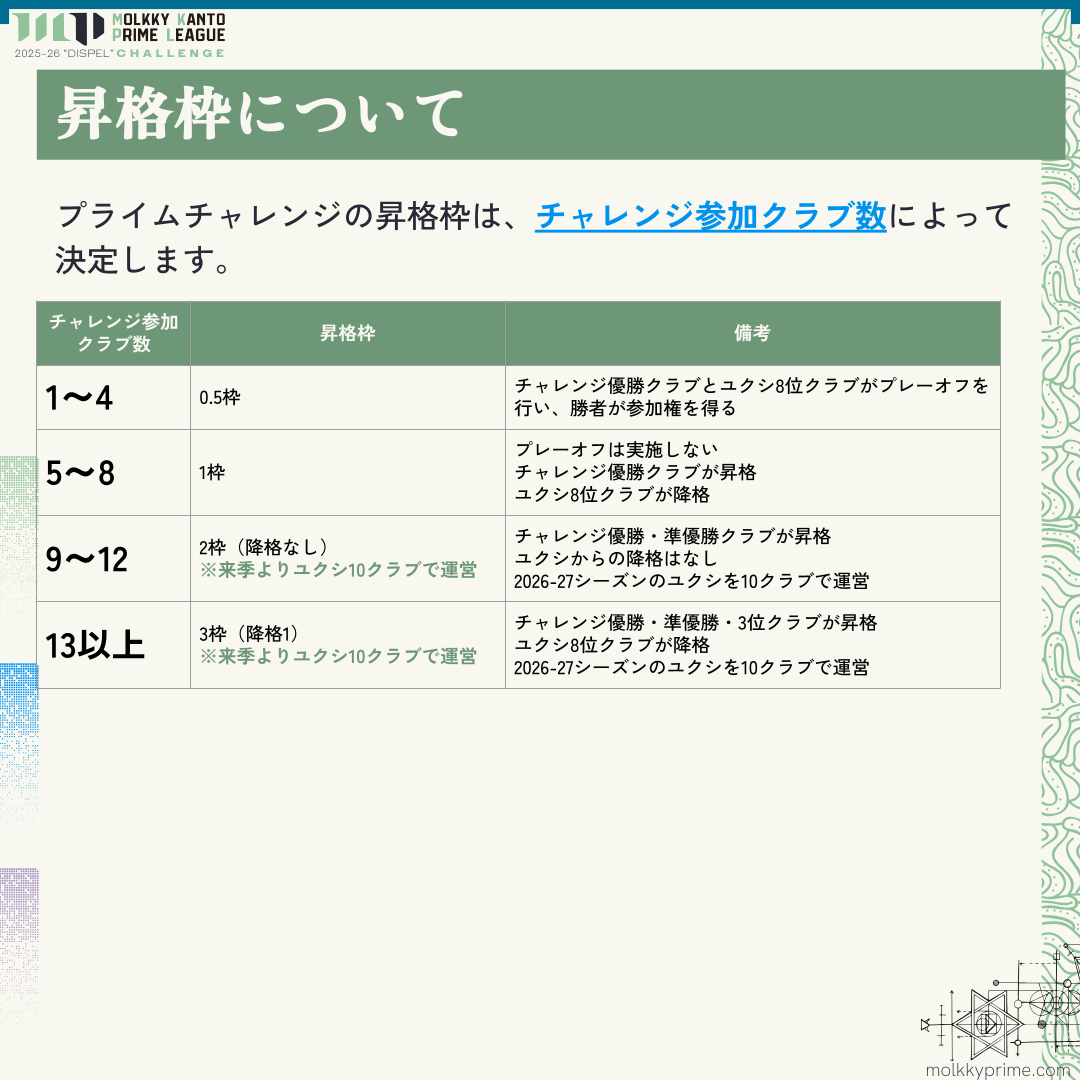
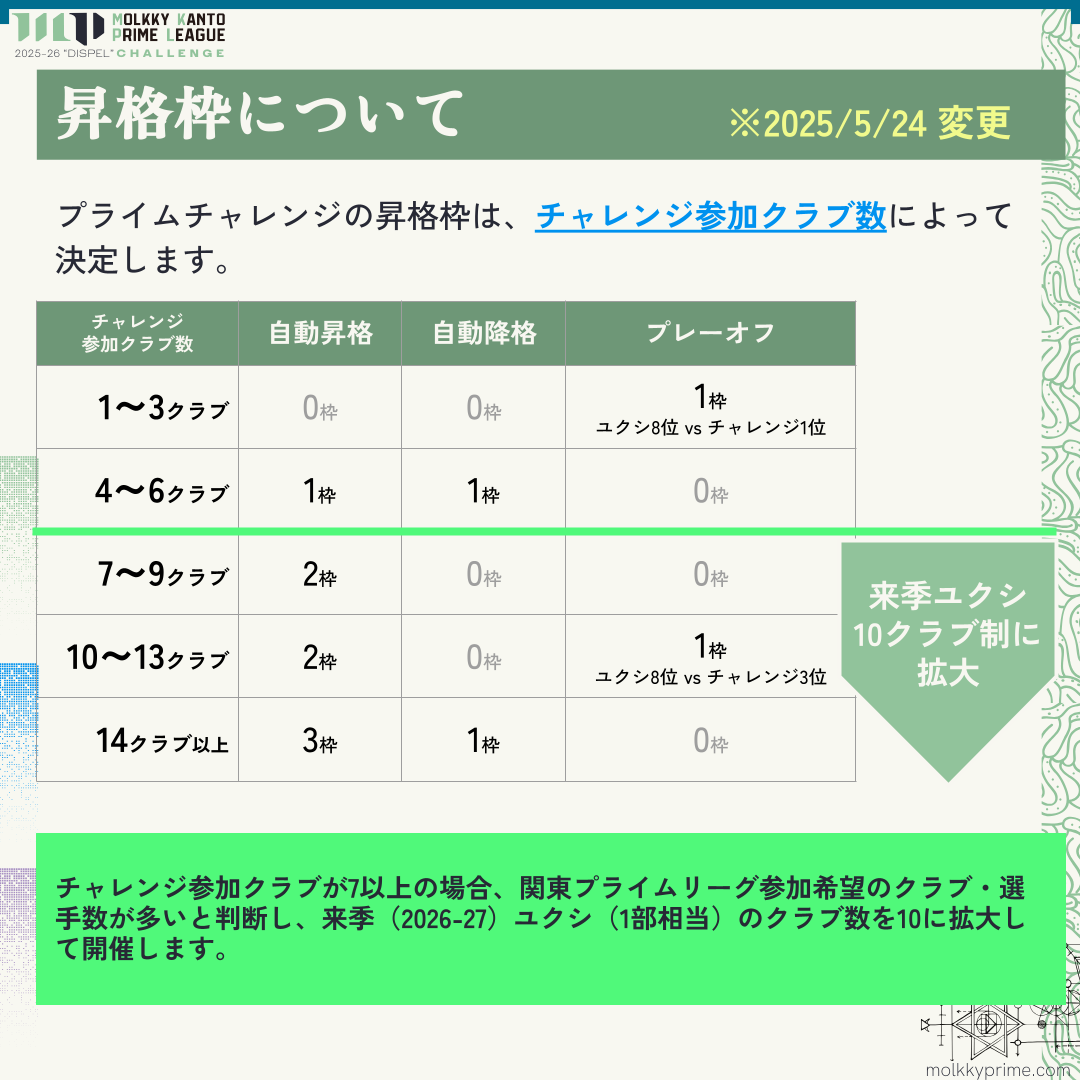
v0.0.0.b33 シーズンガイド更新

diff --git a/script/script.js b/script/script.js
@@ -126,13 +126,19 @@ class MolkkyPrimeConstants {
     // シーズンガイドリンク
     // =================================================
     static get currentSeasonFirstDivGuideUrl() {
-        return this.season202425FirstDivGuideUrl;
+        return this.season202526FirstDivGuideUrl;
+    }
+    static get season202526FirstDivGuideUrl() {
+        return "https://docs.google.com/presentation/d/1hgD1lWqjFENRszDZMKNyleOh4YLzLapV644-LBqAPIk/";
     }
     static get season202425FirstDivGuideUrl() {
         return "https://docs.google.com/presentation/d/1F1ZTMUHTkiqN0pbkweLLT0IrM5-WZOyHI0-K_GMPeR0/";
     }
     static get currentSeasonSecondDivGuideUrl() {
-        return this.season202425SecondDivGuideUrl;
+        return this.season202526SecondDivGuideUrl;
+    }
+    static get season202526SecondDivGuideUrl() {
+        return "https://docs.google.com/presentation/d/1i9mhV0gKI6xrdUrRnsEcT6e2XnD_VUyP4H4UnJ8z6lw/";
     }
     static get season202425SecondDivGuideUrl() {
         return "https://docs.google.com/presentation/d/1_ZfZ-IxBkkIixzw2RsdMNSY49HHgg5CeYRlqrhMWA-8/";
@@ -201,12 +207,12 @@ class MolkkyPrimeConstants {
         return [
             { "url": "https://x.com/SLAPS_molkky", "name": "SLAPS Twitter" },
             { "url": "https://x.com/mcjp_official", "name": "jaja patatas Twitter" },
-            { "url": "https://x.com/sugi_molkky", "name": "杉並エンジョイモルック Twitter" },
             { "url": "https://x.com/fuchu_mol", "name": "Fuchu-möl White Horses Twitter" },
             { "url": "https://x.com/lowkey_molkky", "name": "löwkey with うんとこどっこいしょ大学 Twitter" },
             { "url": "https://x.com/Kestaa1013", "name": "Kestää Twitter" },
             { "url": "https://x.com/NXG_molkky", "name": "NEXT GENERATIONS Twitter" },
-            { "url": "https://x.com/molkky634", "name": "武蔵野 Twitter" }
+            { "url": "https://x.com/molkky634", "name": "武蔵野 Twitter" },
+            { "url": "https://x.com/cobradanplus", "name": "コブラ団＋ Twitter" },
         ];
     }
     static get currentYksiCoverUrl() {
@@ -266,7 +272,8 @@ function convertClubFromCid(cid) {
         ['C12', "にらそばとこくカレー"],
         ['C13', "ブラッキーズ"],
         ['C14', "コブラ団＋"],
-        ['C15', "Buddiesモルック部"]
+        ['C15', "Buddiesモルック部"],
+        ['C16', "SISU"]
     ]);
     return clubMap.get(cid) || "";
 }
@@ -276,7 +283,7 @@ const getDivisionCodeFrom = (cid) => {
         ['C01', MolkkyPrimeConstants.secondDivName],
         ['C02', MolkkyPrimeConstants.firstDivName],
         ['C03', MolkkyPrimeConstants.firstDivName],
-        ['C04', MolkkyPrimeConstants.firstDivName],
+        ['C04', MolkkyPrimeConstants.secondDivName],
         ['C05', MolkkyPrimeConstants.firstDivName],
         ['C06', MolkkyPrimeConstants.firstDivName],
         ['C07', MolkkyPrimeConstants.firstDivName],
@@ -286,8 +293,9 @@ const getDivisionCodeFrom = (cid) => {
         ['C11', MolkkyPrimeConstants.secondDivName],
         ['C12', MolkkyPrimeConstants.secondDivName],
         ['C13', MolkkyPrimeConstants.secondDivName],
-        ['C14', MolkkyPrimeConstants.secondDivName],
-        ['C15', MolkkyPrimeConstants.secondDivName]
+        ['C14', MolkkyPrimeConstants.firstDivName],
+        ['C15', MolkkyPrimeConstants.secondDivName],
+        ['C16', MolkkyPrimeConstants.secondDivName]
     ]);
     return divisionMap.get(cid) || "";
 };

diff --git a/entry/index.html b/entry/index.html
@@ -122,6 +122,10 @@
                     </tr>
                 </table>
             </div>
+            <h4 class="title is-size-5 content">関連リンク</h4>
+            <p class="content"><a
+                    href="https://docs.google.com/presentation/d/1hgD1lWqjFENRszDZMKNyleOh4YLzLapV644-LBqAPIk/edit?usp=sharing"
+                    target="_blank">2025-26ユクシ用シーズンガイド</a></p>
         </section>
 
         <!-- Club Entry -->
@@ -223,6 +227,10 @@
                     </tr>
                 </table>
             </div>
+            <h4 class="title is-size-5 content">関連リンク</h4>
+            <p class="content"><a
+                    href="https://docs.google.com/presentation/d/1i9mhV0gKI6xrdUrRnsEcT6e2XnD_VUyP4H4UnJ8z6lw/edit?usp=sharing"
+                    target="_blank">2025-26チャレンジ用シーズンガイド</a></p>
             <article class="message is-success">
                 <div class="message-header">
                     <p>シーズン2025-26の見通し</p>
@@ -244,35 +252,35 @@
             <div class="card">
                 <div class="card-image">
                     <figure class="image">
-                        <img class="is-rounded" src="./asset/entry_mkpl_kaksi_1.png" alt="season2023_slaps1" />
+                        <img class="is-rounded" src="./asset/entry_mkpl_kaksi_1.png" alt="2526_challenge_entry1" />
                     </figure>
                 </div>
             </div>
             <div class="card">
                 <div class="card-image">
                     <figure class="image">
-                        <img class="is-rounded" src="./asset/entry_mkpl_kaksi_2.png" alt="season2023_slaps1" />
+                        <img class="is-rounded" src="./asset/entry_mkpl_kaksi_2.png" alt="2526_challenge_entry2" />
                     </figure>
                 </div>
             </div>
             <div class="card">
                 <div class="card-image">
                     <figure class="image">
-                        <img class="is-rounded" src="./asset/entry_mkpl_kaksi_3.png" alt="season2023_slaps1" />
+                        <img class="is-rounded" src="./asset/entry_mkpl_kaksi_3.png" alt="2526_challenge_entry3" />
                     </figure>
                 </div>
             </div>
             <div class="card">
                 <div class="card-image">
                     <figure class="image">
-                        <img class="is-rounded" src="./asset/entry_mkpl_kaksi_4.png" alt="season2023_slaps1" />
+                        <img class="is-rounded" src="./asset/entry_mkpl_kaksi_4.png" alt="2526_challenge_entry4" />
                     </figure>
                 </div>
             </div>
             <div class="card">
                 <div class="card-image">
                     <figure class="image">
-                        <img class="is-rounded" src="./asset/entry_mkpl_kaksi_5.png" alt="season2023_slaps1" />
+                        <img class="is-rounded" src="./asset/entry_mkpl_kaksi_5.png" alt="2526_challenge_entry5" />
                     </figure>
                 </div>
             </div>

diff --git a/script/top.js b/script/top.js
@@ -98,14 +98,14 @@ const setupLinks = () => {
 
     const yksiLinks = [
         // { href: MolkkyPrimeConstants.season202425AllDivSheetUrl, text: "日程・結果・順位表スプレッドシート" },
-        // { href: MolkkyPrimeConstants.currentSeasonFirstDivGuideUrl, text: "シーズンガイド（Googleプレゼンテーション）" },
+        { href: MolkkyPrimeConstants.currentSeasonFirstDivGuideUrl, text: "シーズンガイド（Googleプレゼンテーション）" },
         // { href: MolkkyPrimeConstants.allSeasonStatsSheetUrl, text: "リーグ通算成績（Googleスプレッドシート）" }
     ];
     appendLinks('#mkpl-yksi-links', yksiLinks);
 
     const kaksiLinks = [
         // { href: MolkkyPrimeConstants.season202425AllDivSheetUrl, text: "日程・結果・順位表スプレッドシート" },
-        // { href: MolkkyPrimeConstants.currentSeasonSecondDivGuideUrl, text: "シーズンガイド（Googleプレゼンテーション）" }
+        { href: MolkkyPrimeConstants.currentSeasonSecondDivGuideUrl, text: "シーズンガイド（Googleプレゼンテーション）" }
     ];
     appendLinks('#mkpl-kaksi-links', kaksiLinks);
 
